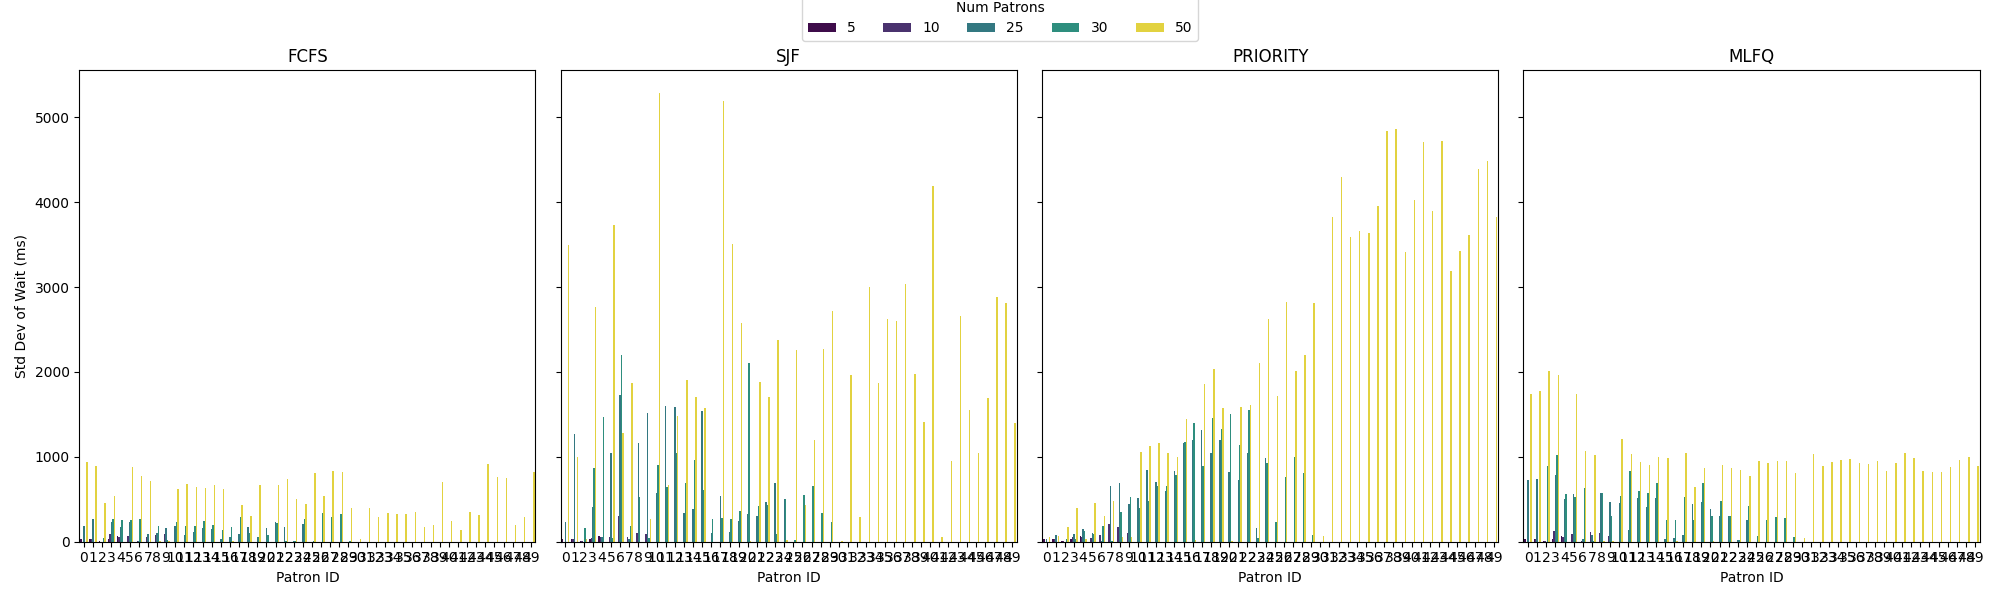
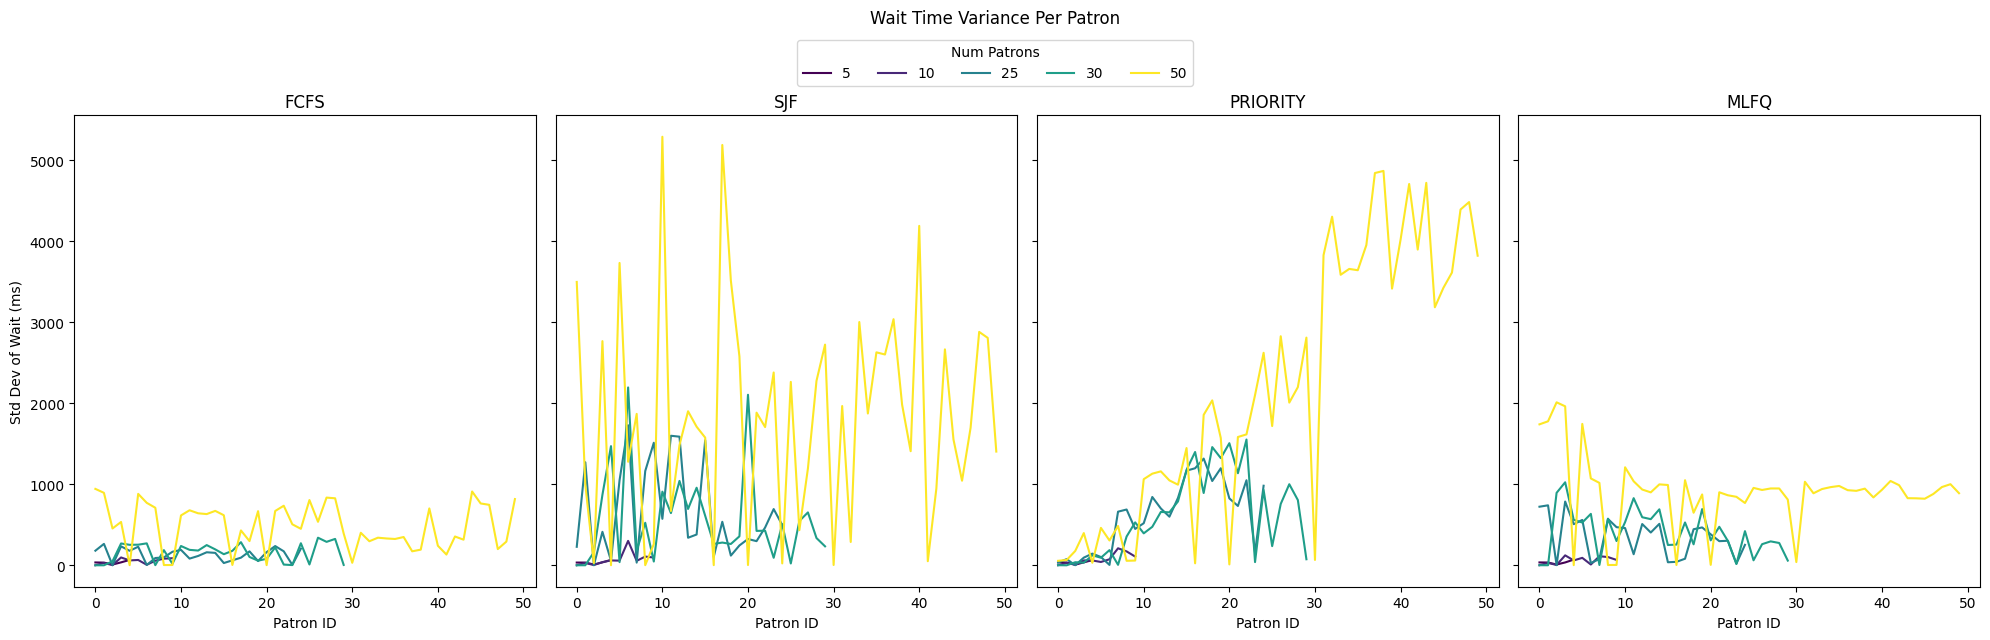
final graphs

diff --git a/bin/graphs.py b/bin/graphs.py
@@ -115,18 +115,17 @@ def plot(df):
     for ax, algo in zip(axes, algorithms):
         subset = df[df['Algorithm'] == algo]
         patron_std = subset.groupby(['Num_patrons', 'Patron'])['Wait'].std().reset_index()
-        sns.barplot(x='Patron', y='Wait', hue='Num_patrons',
-                    data=patron_std, ax=ax, legend=(ax == axes[0]), palette='viridis')
+        sns.lineplot(x='Patron', y='Wait', hue='Num_patrons',
+             data=patron_std, ax=ax, legend=(ax == axes[0]), palette='viridis')
         ax.set_title(algo)
         ax.set_xlabel('Patron ID')
         ax.set_ylabel('Std Dev of Wait (ms)' if ax == axes[0] else '')
     handles, labels = axes[0].get_legend_handles_labels()
     axes[0].get_legend().remove()
-    fig.legend(handles, labels, title='Num Patrons', loc='upper center',
-            ncol=len(patron_counts), bbox_to_anchor=(0.5, 1.02))
-    fig.suptitle('Per Patron Wait Time Variance', y=1.06)
+    fig.legend(handles, labels, title='Num Patrons', loc='upper center',  ncol=len(patron_counts), bbox_to_anchor=(0.5, 1.02))
+    fig.suptitle('Wait Time Variance Per Patron', y=1.06)
     plt.tight_layout()
-    plt.savefig(os.path.join(directory, 'wait_variance.png'))
+    plt.savefig(os.path.join(directory, 'wait_variance.png'), bbox_inches='tight')
     print("Saved wait_variance.png")
     plt.close()
 
@@ -144,9 +143,9 @@ def plot(df):
     axes[0].get_legend().remove()
     fig.legend(handles, labels, title='Num Patrons', loc='upper center',
                ncol=len(patron_counts), bbox_to_anchor=(0.5, 1.02))
-    fig.suptitle('Total Wait Per Patron by Number of Patrons (per Algorithm)', y=1.06)
+    fig.suptitle('Total Wait Per Patron by Number of Patrons', y=1.06)
     plt.tight_layout()
-    plt.savefig(os.path.join(directory, 'fairness_per_algorithm.png'))
+    plt.savefig(os.path.join(directory, 'fairness_per_algorithm.png'), bbox_inches='tight')
     print("Saved fairness_per_algorithm.png")
     plt.close()
 

diff --git a/src/graphs.py b/src/graphs.py
@@ -115,18 +115,17 @@ def plot(df):
     for ax, algo in zip(axes, algorithms):
         subset = df[df['Algorithm'] == algo]
         patron_std = subset.groupby(['Num_patrons', 'Patron'])['Wait'].std().reset_index()
-        sns.barplot(x='Patron', y='Wait', hue='Num_patrons',
-                    data=patron_std, ax=ax, legend=(ax == axes[0]), palette='viridis')
+        sns.lineplot(x='Patron', y='Wait', hue='Num_patrons',
+             data=patron_std, ax=ax, legend=(ax == axes[0]), palette='viridis')
         ax.set_title(algo)
         ax.set_xlabel('Patron ID')
         ax.set_ylabel('Std Dev of Wait (ms)' if ax == axes[0] else '')
     handles, labels = axes[0].get_legend_handles_labels()
     axes[0].get_legend().remove()
-    fig.legend(handles, labels, title='Num Patrons', loc='upper center',
-            ncol=len(patron_counts), bbox_to_anchor=(0.5, 1.02))
-    fig.suptitle('Per Patron Wait Time Variance', y=1.06)
+    fig.legend(handles, labels, title='Num Patrons', loc='upper center',  ncol=len(patron_counts), bbox_to_anchor=(0.5, 1.02))
+    fig.suptitle('Wait Time Variance Per Patron', y=1.06)
     plt.tight_layout()
-    plt.savefig(os.path.join(directory, 'wait_variance.png'))
+    plt.savefig(os.path.join(directory, 'wait_variance.png'), bbox_inches='tight')
     print("Saved wait_variance.png")
     plt.close()
 
@@ -144,9 +143,9 @@ def plot(df):
     axes[0].get_legend().remove()
     fig.legend(handles, labels, title='Num Patrons', loc='upper center',
                ncol=len(patron_counts), bbox_to_anchor=(0.5, 1.02))
-    fig.suptitle('Total Wait Per Patron by Number of Patrons (per Algorithm)', y=1.06)
+    fig.suptitle('Total Wait Per Patron by Number of Patrons', y=1.06)
     plt.tight_layout()
-    plt.savefig(os.path.join(directory, 'fairness_per_algorithm.png'))
+    plt.savefig(os.path.join(directory, 'fairness_per_algorithm.png'), bbox_inches='tight')
     print("Saved fairness_per_algorithm.png")
     plt.close()
 